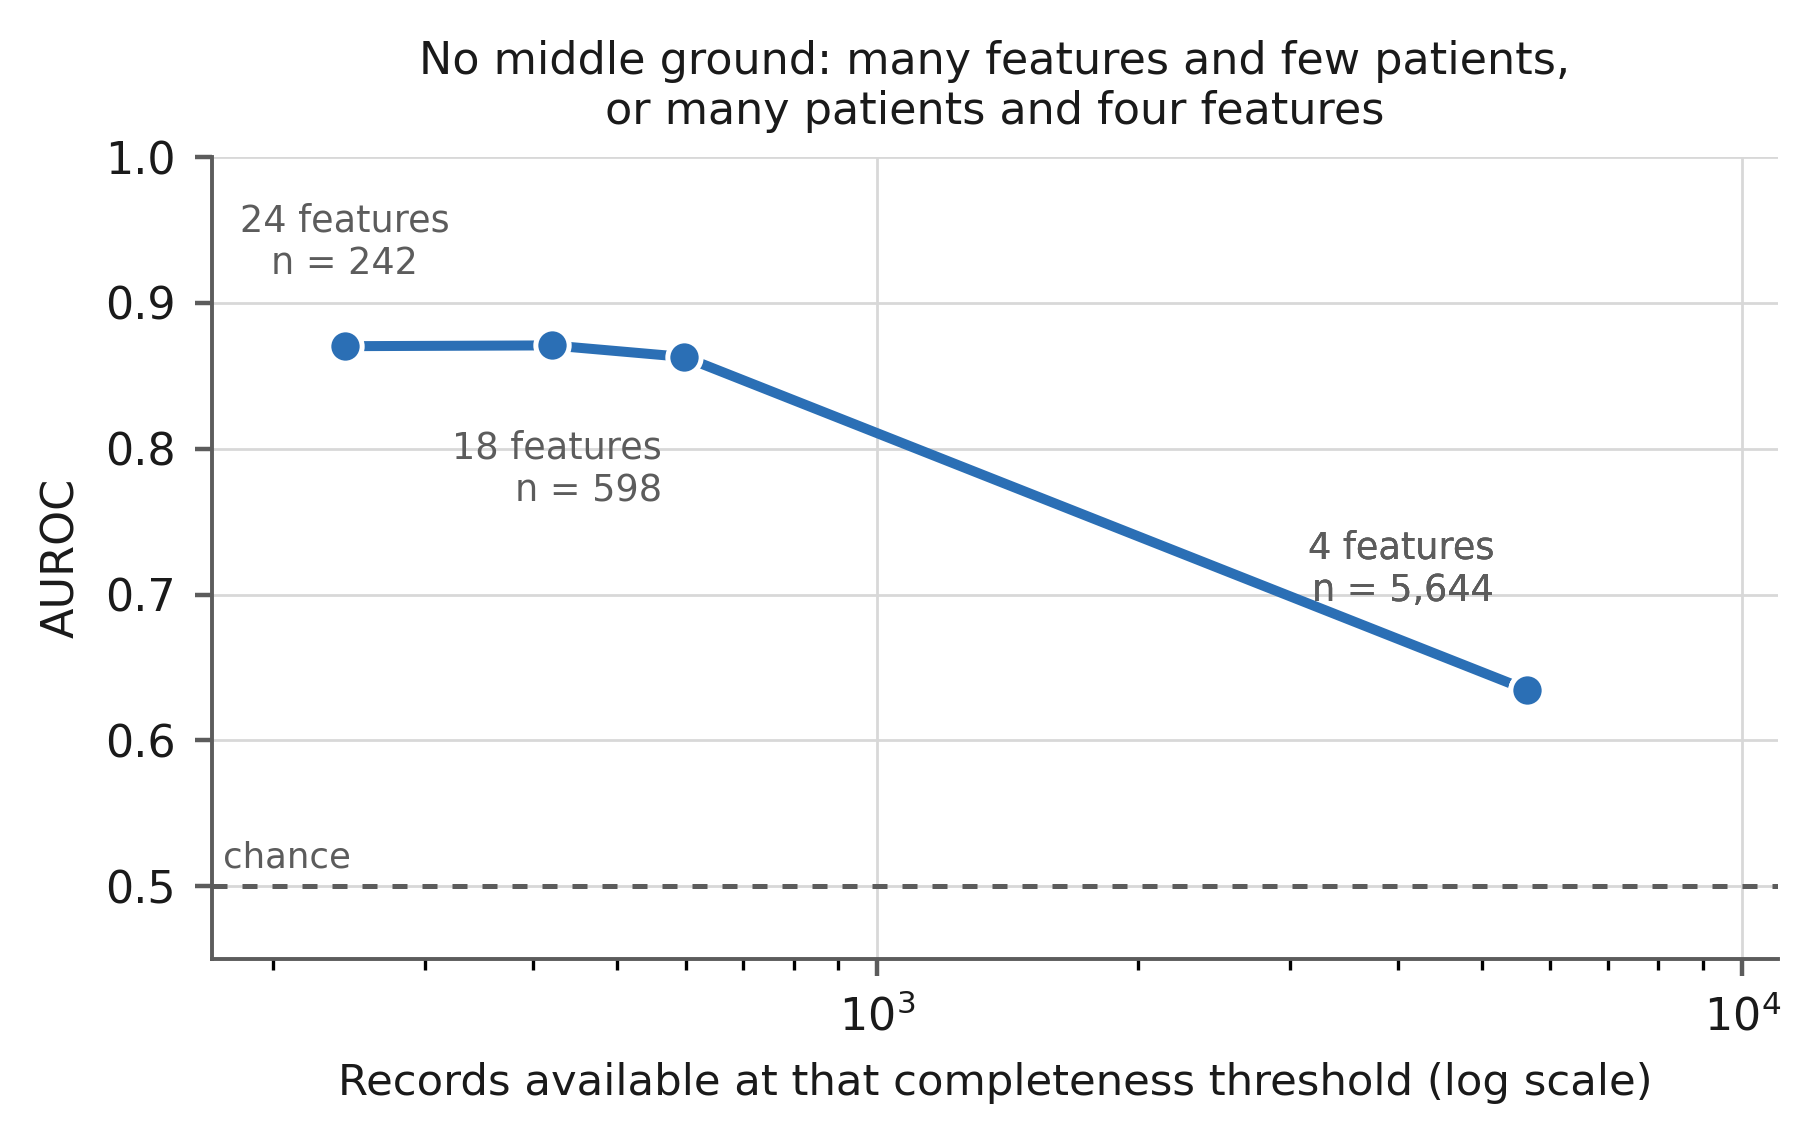
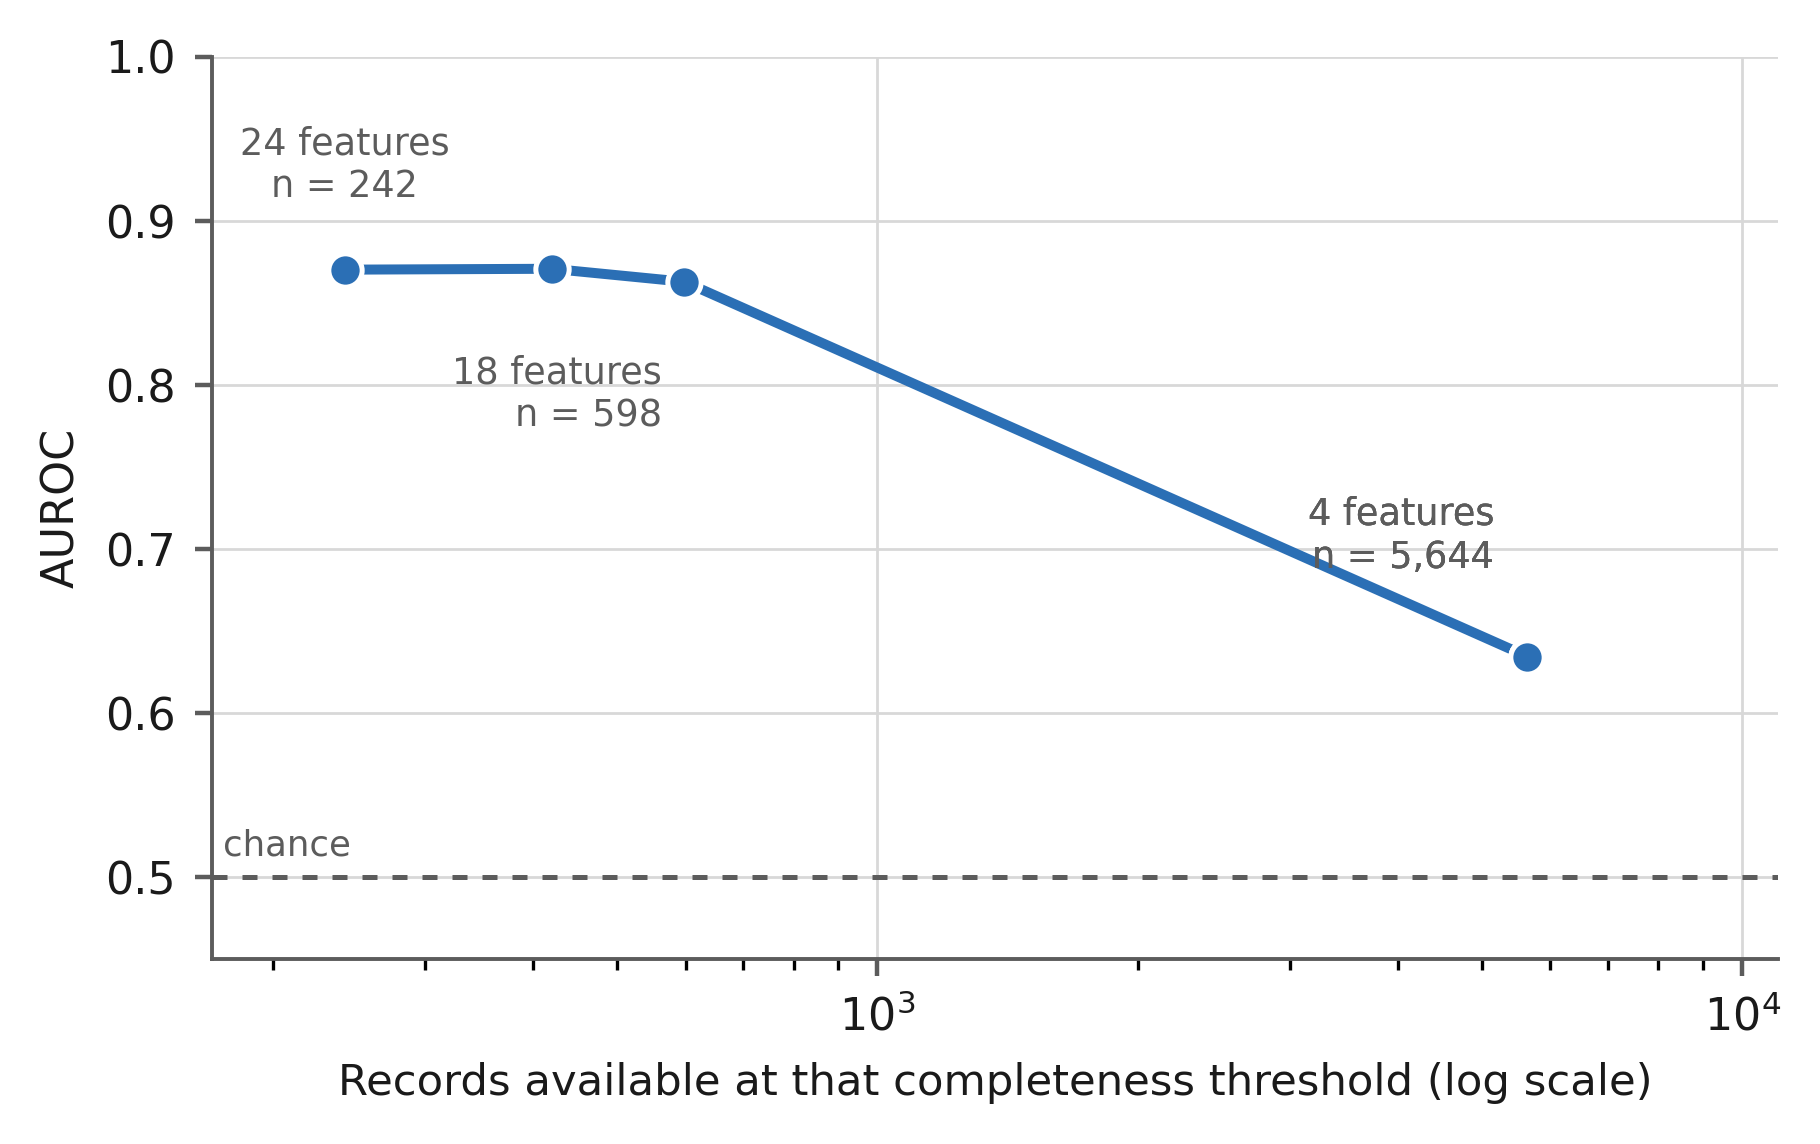
Drop in-figure titles; captions carry that text
Journal style keeps titles in the caption, not inside the plot area. Panel
identifiers (A)/(B)/(C) are retained because the captions reference them.

diff --git a/src/08_figures_main.py b/src/08_figures_main.py
@@ -35,7 +35,6 @@ def cm_panel(ax, counts, title, total_note):
     ax.set_xticks([0,1]); ax.set_xticklabels(["Predicted\nnon-warning","Predicted\nwarning"],fontsize=7.2)
     ax.set_yticks([0,1]); ax.set_yticklabels(["True\nnon-warning","True\nwarning"],fontsize=7.2)
     ax.set_title(title,fontsize=8,pad=6,color=INK)
-    ax.text(.5,-.34,total_note,transform=ax.transAxes,ha="center",fontsize=6.8,color=MUTED)
     for s in ax.spines.values(): s.set_color(MUTED)
     ax.tick_params(length=0, colors=MUTED, labelcolor=INK)
 
@@ -49,8 +48,6 @@ for ax,(k,t) in zip(axes,sel):
     a=np.array(cms[k]).sum(0)/2.0
     m=S[S.model==k]
     cm_panel(ax,a,t,f"sensitivity {m.sensitivity.mean():.3f}   precision {m.precision.mean():.3f}   F1 {m.f1.mean():.3f}")
-fig.suptitle("Social media task — pooled over 10 cross-validation folds (counts per pass over the 8,395-tweet corpus)",
-             fontsize=8,color=INK,y=1.04)
 plt.tight_layout(); plt.savefig("results/figures/fig_social_cm.png",bbox_inches="tight",facecolor="white"); plt.close()
 
 # ---------- social model comparison: dot plot, mean +- sd ----------
@@ -82,8 +79,6 @@ for ax in axes:
     ax.axhline(0.5,color=MUTED,lw=.7,ls=(0,(1,2)))
 fig.text(0.005,0.545,"as published",fontsize=6.6,color=MUTED,style="italic",rotation=90,va="center")
 fig.text(0.005,0.255,"revised",fontsize=6.6,color=MUTED,style="italic",rotation=90,va="center")
-fig.suptitle("Social media task — mean ± SD over 10 folds (5-fold stratified CV × 2 repeats)",
-             fontsize=8,color=INK,y=1.03)
 plt.tight_layout(); plt.savefig("results/figures/fig_social_compare.png",bbox_inches="tight",facecolor="white"); plt.close()
 
 # ---------- vocabulary sweep ----------
@@ -103,7 +98,6 @@ ax.set_xlabel("Tokenizer vocabulary size (log scale)",fontsize=8,color=INK)
 ax.set_ylabel("Score",fontsize=8,color=INK)
 ax.set_xlim(85,9000); ax.grid(color=GRID,lw=.5,zorder=0); ax.set_axisbelow(True); despine(ax)
 ax.legend(frameon=False,fontsize=7,loc="lower right")
-ax.set_title("Effect of the vocabulary cap on the proposed model",fontsize=8,color=INK,pad=6)
 plt.tight_layout(); plt.savefig("results/figures/fig_vocab_sweep.png",bbox_inches="tight",facecolor="white"); plt.close()
 print("social figures written",flush=True)
 
@@ -126,8 +120,6 @@ for ax,(k,t) in zip(axes,csel):
     cm_panel(ax,a,t,f"sensitivity {m.sensitivity.mean():.3f}   AUROC {m.auroc.mean():.3f}")
     ax.set_xticklabels(["Predicted\nnegative","Predicted\npositive"],fontsize=7.2)
     ax.set_yticklabels(["True\nnegative","True\npositive"],fontsize=7.2)
-fig.suptitle("Clinical task, complete-case cohort (n = 598, 81 positive) — pooled over 10 folds",
-             fontsize=8,color=INK,y=1.04)
 plt.tight_layout(); plt.savefig("results/figures/fig_clinical_cm.png",bbox_inches="tight",facecolor="white"); plt.close()
 
 fig,axes=plt.subplots(1,3,figsize=(7.2,2.4),sharey=True)
@@ -140,8 +132,6 @@ for ax,(key,lab,col) in zip(axes,[("auroc","AUROC",BLUE),("sensitivity","Sensiti
     ax.set_xlabel(lab,fontsize=8,color=INK); ax.grid(axis="x",color=GRID,lw=.5,zorder=0)
     ax.set_axisbelow(True); despine(ax,("left",))
 axes[0].set_yticks(yy); axes[0].set_yticklabels(cshort,fontsize=7.2)
-fig.suptitle("Clinical task — mean ± SD over 10 folds; the SD bands overlap for every pair (no significant difference)",
-             fontsize=8,color=INK,y=1.05)
 plt.tight_layout(); plt.savefig("results/figures/fig_clinical_compare.png",bbox_inches="tight",facecolor="white"); plt.close()
 
 print("clinical figures written",flush=True)

diff --git a/src/09_figures_clinical.py b/src/09_figures_clinical.py
@@ -38,7 +38,6 @@ ax.set_ylabel("Sensitivity",fontsize=8,color=INK)
 ax.set_xlim(-.02,1.02); ax.set_ylim(-.02,1.02)
 ax.grid(color=GRID,lw=.5,zorder=0); ax.set_axisbelow(True); despine(ax)
 ax.legend(frameon=False,fontsize=6.9,loc="lower right")
-ax.set_title("Where the model actually operates",fontsize=8.5,color=INK,pad=6)
 
 ax=axes[1]
 labs=["Threshold 0.5\n(as reported)","80% specificity","90% specificity"]
@@ -52,9 +51,6 @@ ax.set_yticks([0,1,2]); ax.set_yticklabels(labs,fontsize=7.4)
 ax.set_xlabel("Positive-class sensitivity",fontsize=8,color=INK)
 ax.set_xlim(0,1.12); ax.grid(axis="x",color=GRID,lw=.5,zorder=0); ax.set_axisbelow(True)
 despine(ax,("left",))
-ax.set_title("Same model, three operating points",fontsize=8.5,color=INK,pad=6)
-fig.suptitle("Clinical task: the decision threshold, not the architecture, governs what the model detects",
-             fontsize=8.2,color=INK,y=1.02)
 plt.tight_layout(); plt.savefig("results/figures/fig_operating_point.png",bbox_inches="tight",facecolor="white"); plt.close()
 
 # ---------- 2. cohort spectrum ----------
@@ -73,7 +69,5 @@ ax.set_xscale("log"); ax.set_xlabel("Records available at that completeness thre
 ax.set_ylabel("AUROC",fontsize=8,color=INK)
 ax.set_ylim(.45,1.0); ax.set_xlim(170,11000)
 ax.grid(color=GRID,lw=.5,zorder=0); ax.set_axisbelow(True); despine(ax)
-ax.set_title("No middle ground: many features and few patients,\nor many patients and four features",
-             fontsize=8,color=INK,pad=6)
 plt.tight_layout(); plt.savefig("results/figures/fig_cohort_spectrum.png",bbox_inches="tight",facecolor="white"); plt.close()
 print("written")

diff --git a/src/06_shap_analysis.py b/src/06_shap_analysis.py
@@ -57,7 +57,7 @@ print("share of mean|SHAP| in the raw-clinical block: %.3f"%share_raw,flush=True
 
 names=[k.replace("\xa0"," ").strip() for k in keep]
 shap.summary_plot(raw_block, B, feature_names=names, show=False, max_display=18, plot_size=(6.4,4.6))
-f=plt.gcf(); f.axes[0].set_title("SHAP summary, clinical variables (positive class)",fontsize=8.5,pad=8)
+f=plt.gcf()
 for a in f.axes: a.tick_params(labelsize=7.2); a.set_xlabel(a.get_xlabel(),fontsize=8)
 f.savefig("results/figures/fig_shap_beeswarm.png",bbox_inches="tight",facecolor="white",dpi=400); plt.close(f)
 
@@ -70,7 +70,6 @@ ax.set_yticks(range(len(_v))); ax.set_yticklabels(_n,fontsize=7)
 for i,v in enumerate(_v):
     if v>0.0009: ax.text(v+_v.max()*.015,i,f"{v:.4f}",va="center",fontsize=6.4,color="#1a1a1a")
 ax.set_xlabel("mean |SHAP value|",fontsize=8,color="#1a1a1a")
-ax.set_title("Mean absolute SHAP value per clinical variable",fontsize=8.5,pad=6,color="#1a1a1a")
 ax.grid(axis="x",color="#d8d8d8",lw=.5); ax.set_axisbelow(True)
 for sp in ("top","right"): ax.spines[sp].set_visible(False)
 for sp in ("left","bottom"): ax.spines[sp].set_color("#5c5c5c")
